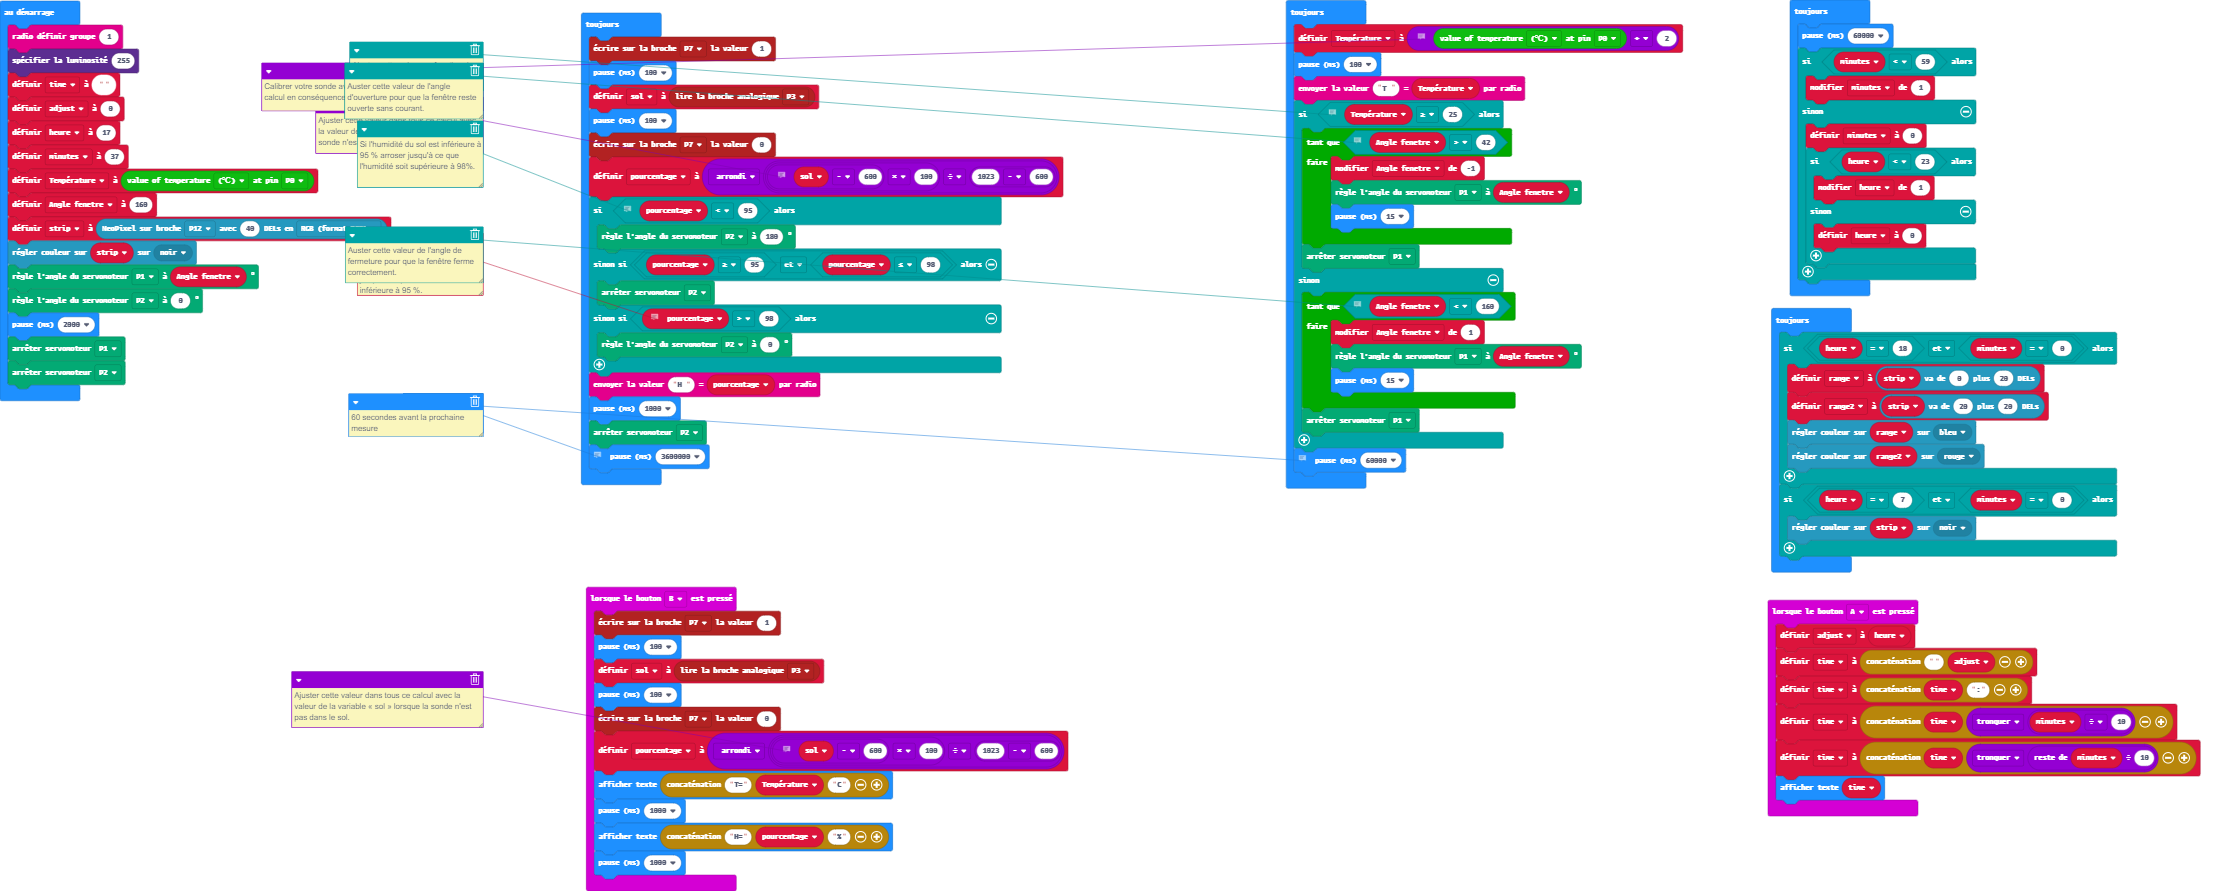
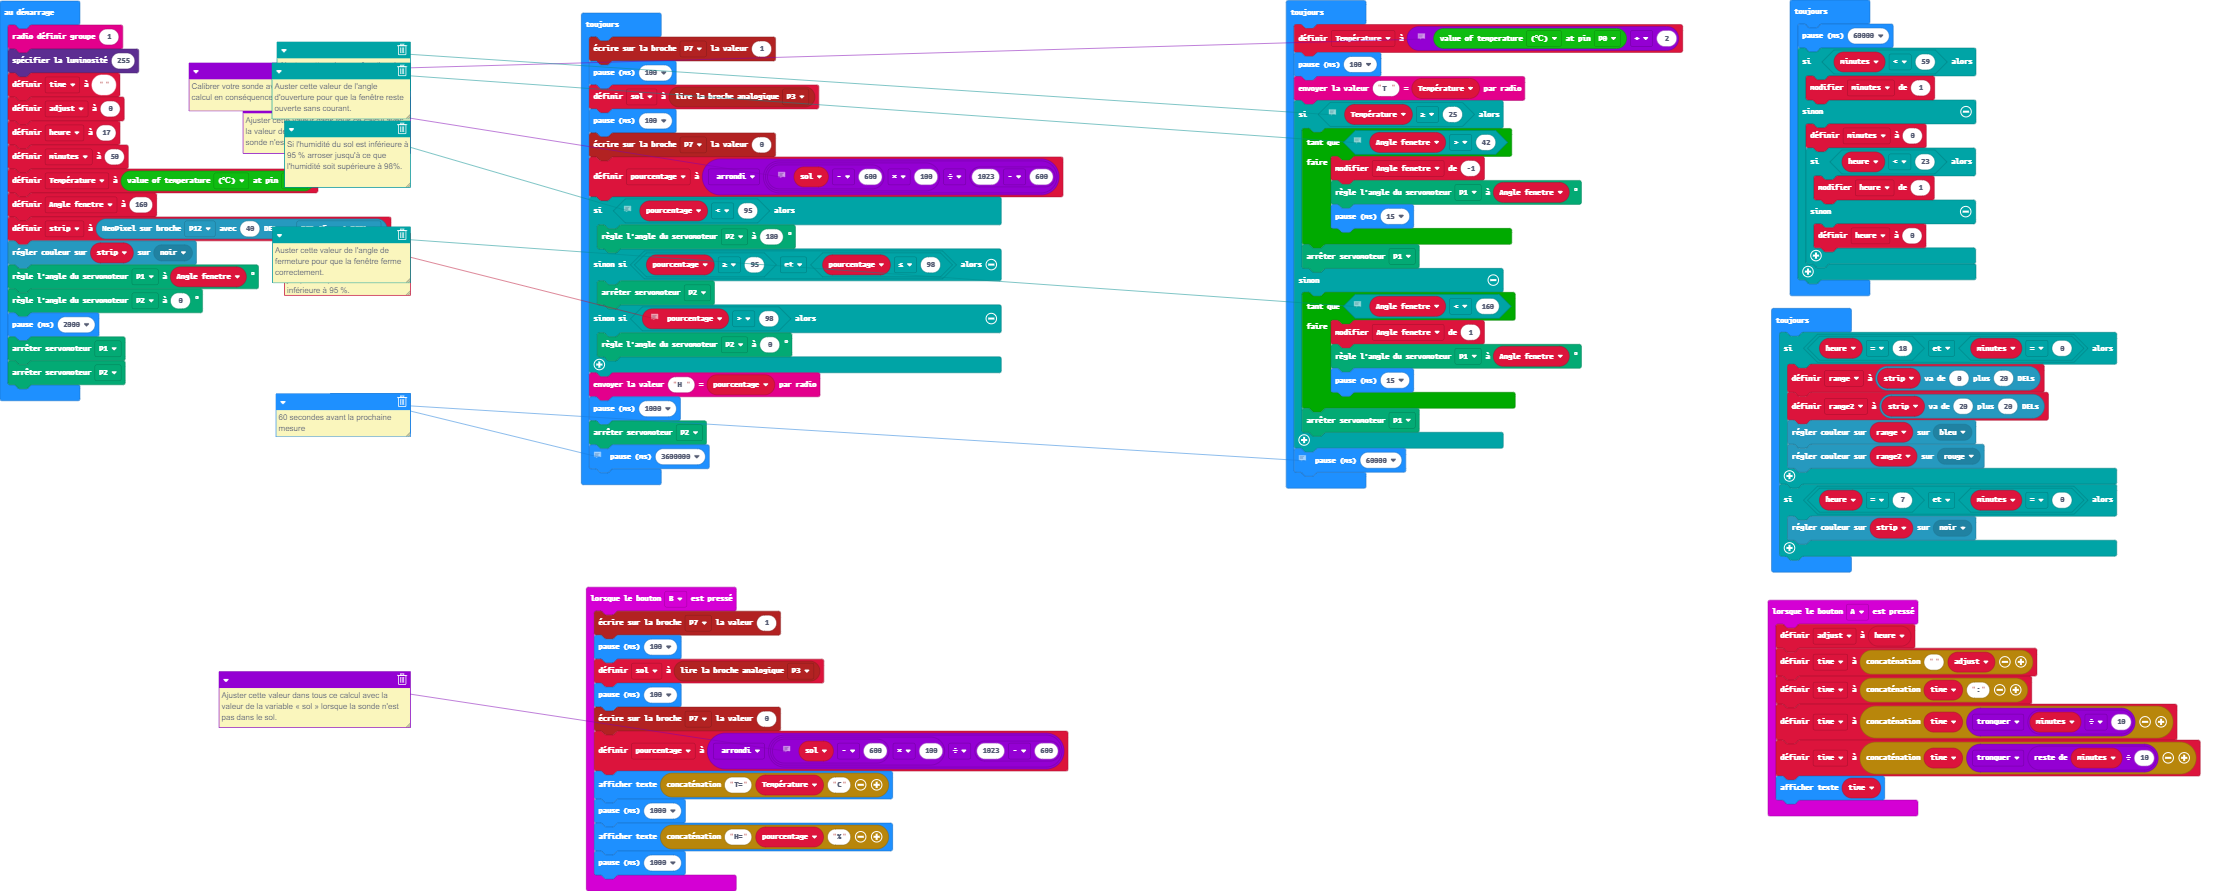
Mise à jour main.blocks, main.ts

diff --git a/main.ts b/main.ts
@@ -33,7 +33,7 @@ led.setBrightness(255)
 time = ""
 adjust = 0
 heure = 17
-minutes = 37
+minutes = 50
 Température = smarthome.ReadTemperature(TMP36Type.TMP36_temperature_C, AnalogPin.P0)
 let Angle_fenetre = 160
 let strip = neopixel.create(DigitalPin.P12, 40, NeoPixelMode.RGB)
